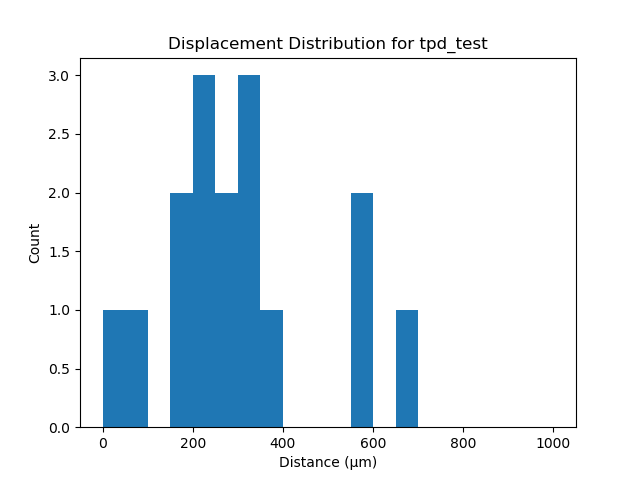
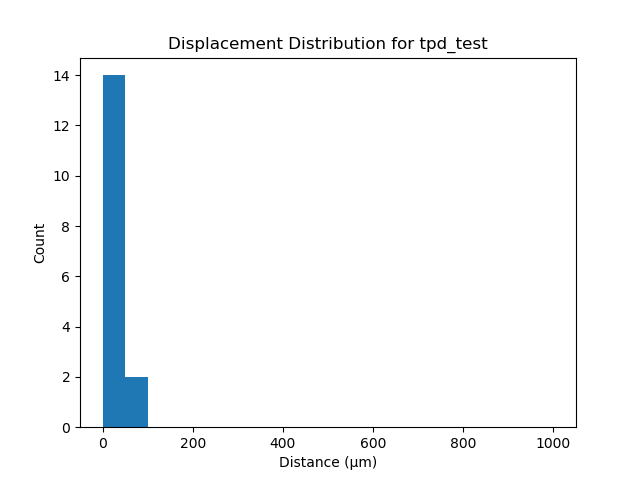
update velocity calcs

diff --git a/graph.py b/graph.py
@@ -19,7 +19,7 @@ args = vars(ap.parse_args())
 minDist = 10
 fps = 4
 scalar = 0.27
-idLst, deltaLst, frameCount, dirLst, frameLst = [], [], [], [], []
+idLst, deltaLst, frameCount, dirLst, frameLst, distLst = [], [], [], [], [], []
 folderPath = Path(args["input"])
 folderLst = os.listdir(folderPath / "detailedResults")
 testLst = []
@@ -34,90 +34,94 @@ with open(folderPath / "compactResults.csv",'r') as csvfile:
         dirLst.append((row[3]))
         tmpStr = row[4][1:-1]
         frameLst.append(tmpStr.split(','))
-
+        distLst.append(float(row[5])*scalar)
 velocityLst = []      
 for i in range (len (idLst)):
 
 
-    numFrames = int(frameLst[i][-1]) - int(frameLst[i][0])
-    distance = deltaLst[i]
+    numFrames = frameCount[i]
+    distance = distLst[i]
     
-
     if numFrames == 0:
         velocity = 0
     else:
         velocity = (distance/numFrames)*fps
+    print(idLst[i], distance, velocity)
+
     velocityLst.append(velocity)
 count = 0
 totalVelocity = 0
+filterVelLst = []
 for i in range (len(velocityLst)):
-    if deltaLst[i] < minDist:
+    if distLst[i] < minDist:
         continue
     else:
+
         count += 1
         totalVelocity += velocityLst[i]
+        filterVelLst.append(velocityLst[i])
 avgVelocity = totalVelocity/count
 print(avgVelocity)
 
 with open(folderPath / 'velocity.txt', 'w') as f:
   f.write(str(avgVelocity))
 displacementDistrib = plt.figure()
-plt.hist(deltaLst,range=[0, 1000], bins = 20)
+plt.hist(distLst,range=[0, 1000], bins = 20)
 plt.xlabel("Distance (\u03BCm)")
 plt.ylabel("Count")
 plt.title("Displacement Distribution for " + str(folderPath.parts[-1]))
 plt.savefig(folderPath / "displacement.png")
 
 velocityDistrib = plt.figure()
-plt.hist(velocityLst,range=[0, 5], bins = 20)
+plt.hist(filterVelLst,range=[0, 1], bins = 10)
 plt.xlabel("Velocity (\u03BCm/s)")
 plt.ylabel("Count")
 plt.title("Velocity Distribution for " + str(folderPath.parts[-1]))
 
 plt.savefig(folderPath / "velocity.png")
-try:
-    os.mkdir(folderPath / "graphs")
-except:
-    print("Overwriting data: directory already exists")
-for particle in folderLst:
-    endID = particle.find("_")
-    name = particle[:endID]
-    directionLst = []
-    f = []
-    delta = []
-    with open (folderPath / "detailedResults" / particle, 'r') as csvfile:
-        plots = csv.reader(csvfile, delimiter=',')
-        for row in plots:
-            if len(row) == 0:
-                continue
-            directionLst.append(float(row[4]))
-            f.append(int(row[0]))
-            delta.append(float(row[3]))
-    dirPlot = plt.figure()
-    plt.xlim(180, 1200)
-    plt.xlabel("Frame")
-    plt.ylabel("Direction (rad)")
-    plt.title("Direction of Movement for Particle " + str(name)+ " in " + str(folderPath.parts[-1]))
+# try:
+#     os.mkdir(folderPath / "graphs")
+# except:
+#     print("Overwriting data: directory already exists")
+# for particle in folderLst:
+#     endID = particle.find("_")
+#     name = particle[:endID]
+#     directionLst = []
+#     f = []
+#     delta = []
+#     with open (folderPath / "detailedResults" / particle, 'r') as csvfile:
+#         plots = csv.reader(csvfile, delimiter=',')
+#         for row in plots:
+#             if len(row) == 0:
+#                 continue
+#             directionLst.append(float(row[4]))
+#             f.append(int(row[0]))
+#             delta.append(float(row[3]))
+#     dirPlot = plt.figure()
+#     plt.xlim(180, 1200)
+#     plt.xlabel("Frame")
+#     plt.ylabel("Direction (rad)")
+#     plt.title("Direction of Movement for Particle " + str(name)+ " in " + str(folderPath.parts[-1]))
 
-    plt.plot(f, directionLst)
-    dirPlotName = name + "_dir.png"
+#     plt.plot(f, directionLst)
+#     dirPlotName = name + "_dir.png"
 
-    plt.savefig(folderPath / "graphs" / dirPlotName)
-    totalLst = [0]*len(delta)
-    for i in range (len(delta)):
-        if i == 0:
-            totalLst[i] = delta[i]
-        else:
+#     plt.savefig(folderPath / "graphs" / dirPlotName)
+#     totalLst = [0]*len(delta)
+#     for i in range (len(delta)):
+#         if i == 0:
+#             totalLst[i] = delta[i]
+#         else:
             
-            totalLst[i] = delta[i] + totalLst [i-1]
-    distPlot = plt.figure()
-    plt.plot(f, totalLst)
-    plt.xlim(180, 1200)
-    plt.xlabel("Frame")
-    plt.ylabel("Distance (\u03BCm)")
-    plt.ylim(0, 1200)
-    dirPlotName = name + "_movement.png"
-    plt.title("Displacement for Particle " + str(name)+ " in " + str(folderPath.parts[-1]))
+#             totalLst[i] = delta[i] + totalLst [i-1]
+#     distPlot = plt.figure()
+#     plt.plot(f, totalLst)
+#     plt.xlim(180, 1200)
+#     plt.xlabel("Frame")
+#     plt.ylabel("Distance (\u03BCm)")
+#     plt.ylim(0, 1200)
+#     dirPlotName = name + "_movement.png"
+#     plt.title("Displacement for Particle " + str(name)+ " in " + str(folderPath.parts[-1]))
 
-    plt.savefig(folderPath / "graphs" / dirPlotName)
-    plt.close()
+#     plt.savefig(folderPath / "graphs" / dirPlotName)
+#     plt.close()
